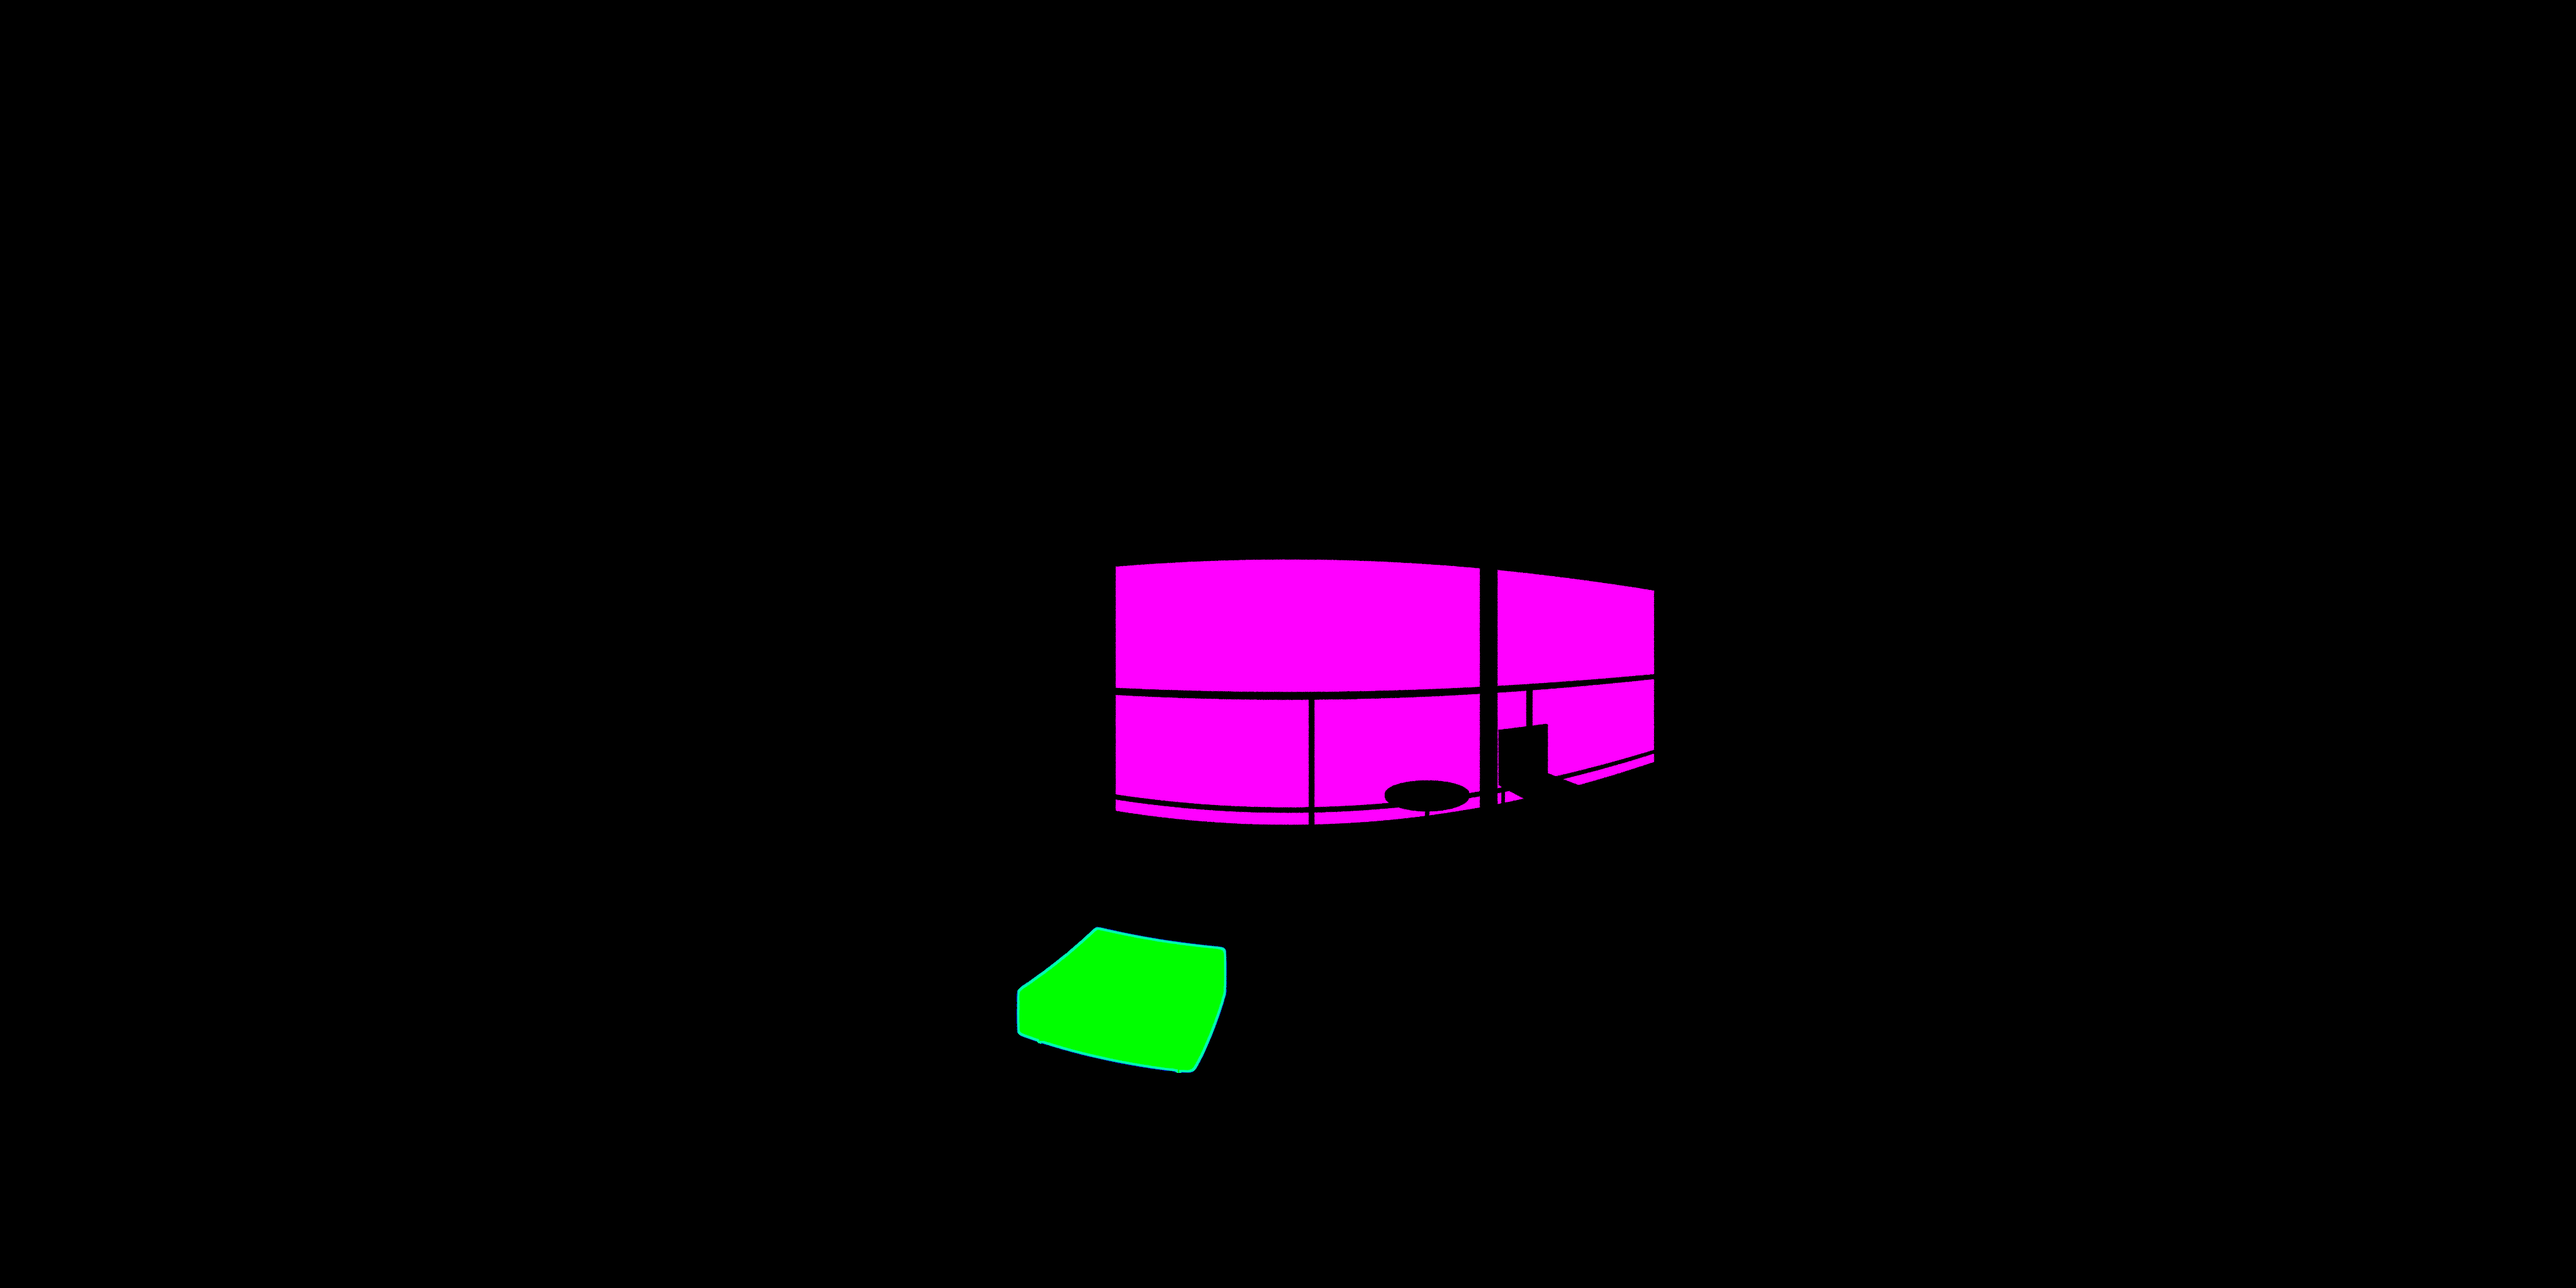
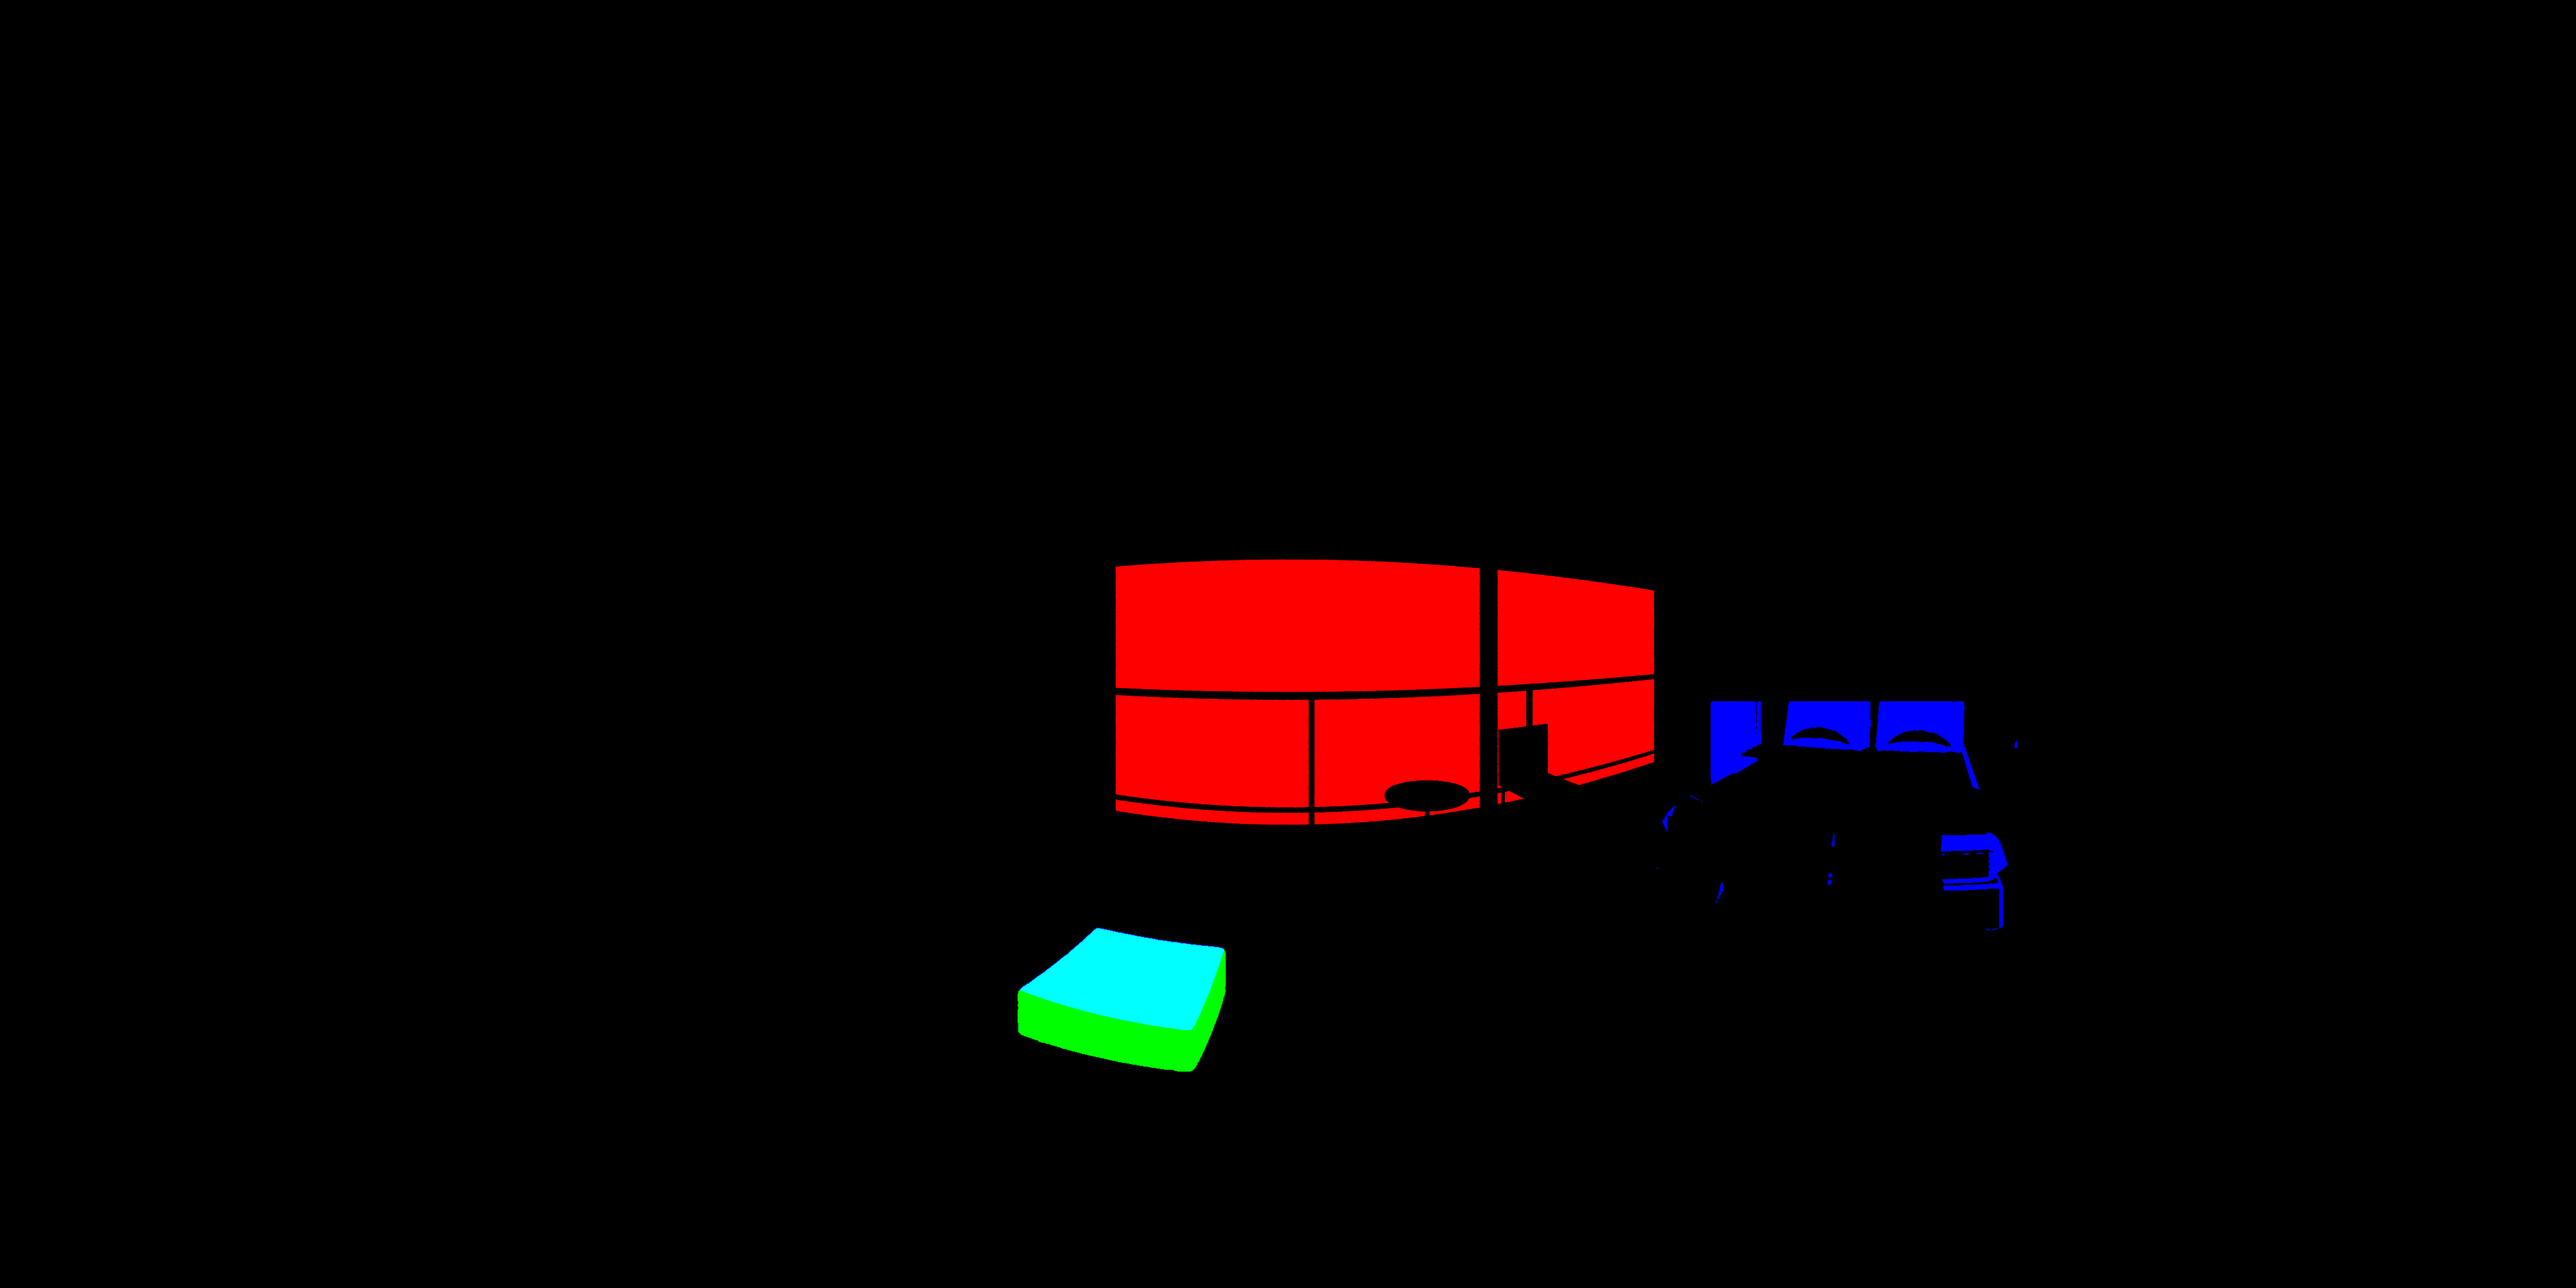
Teste 26/10 (E0): janelas acesas so em paredes reais (sem manchas nos telhados) (projeto 3f2041f)

Changed region(s): [[0.4062, 0.4375, 0.7812, 0.6562], [0.375, 0.7188, 0.5, 0.8125], [0.75, 0.625, 0.7812, 0.7188]]

diff --git a/teste/src/google-vista.js b/teste/src/google-vista.js
@@ -120,7 +120,7 @@ const LUZ_GLSL = `
     vec3 cB = outgoingLight;
     outgoingLight = g3dGrade(cB * uLuz, uGrade); // C7 21/10: day grade (identity at night and in the window photo shots)
     // street lights (same map as our city: R sodium, G LED, B terrain height), on what is near street level
-    if (uNoiteG > 0.001 && uTerrExt > 0.0) {
+    if (uNoiteG > 0.001 && uTerrExt > 0.0${typeof location !== 'undefined' && /[?&]g3dlz=0/.test(location.search) ? ' && false' : ''}) { // ?g3dlz=0: street-light pools off (tests)
       vec2 rq = (vB5.xz + uTerrExt) / (2.0 * uTerrExt);
       if (all(greaterThan(rq, vec2(0.0))) && all(lessThan(rq, vec2(1.0)))) {
         vec3 lz = texture2D(uTerr, rq).rgb;
@@ -131,7 +131,27 @@ const LUZ_GLSL = `
     if (uNoiteG > 0.001) {
       vec3 nB = normalize(cross(dFdx(vB5), dFdy(vB5)));
       bool verde = cB.g > cB.r * 1.08 && cB.g > cB.b * 1.04;
-      if (!verde && abs(nB.y) < 0.5 && vB5.y > 3.5) {
+      // RODADA 26/10 (Meta: beige 'lit window' patches on roofs and ground seen from the balcony, sticker-like patches on facades):
+      // only vertical surfaces (|n.y| < 0.3; a 30-45 deg tiled roof has |n.y| 0.7-0.87 but the screen-derivative normal of coarse
+      // tiles wanders) and >= 3 m above the LOCAL ground (terrain map), not above the B5 origin
+      float hLocJ = vB5.y;
+      if (uTerrExt > 0.0) { vec2 rqJ = (vB5.xz + uTerrExt) / (2.0 * uTerrExt); if (all(greaterThan(rqJ, vec2(0.0))) && all(lessThan(rqJ, vec2(1.0)))) hLocJ = vB5.y - (texture2D(uTerr, rqJ).b * 60.0 - 20.0); }
+      // ... and only on the wall of a TALL building of OUR footprint map (c.w = 1 + roof height, cena3d montaMapaPredios), below its
+      // roof: the photo W layer (dumped 26/10) had shards on parapets / roof steps of the low houses and on Google's roof edges
+      bool altoJ = true;
+      if (uMapaR.z > 0.0) {
+        vec2 uvJ = vec2((vB5.x - uMapaR.x) * uMapaR.z, 1.0 - (vB5.z - uMapaR.y) * uMapaR.z);
+        if (all(greaterThan(uvJ, vec2(0.0))) && all(lessThan(uvJ, vec2(1.0)))) {
+          vec2 eJ = vec2(2.5 * uMapaR.z, 0.0); float topoJ = -1.0; vec4 cJ;
+          cJ = texture2D(uMapaP, uvJ); if (cJ.a > 0.5) topoJ = max(topoJ, cJ.w - 1.0);
+          cJ = texture2D(uMapaP, uvJ + eJ.xy); if (cJ.a > 0.5) topoJ = max(topoJ, cJ.w - 1.0);
+          cJ = texture2D(uMapaP, uvJ - eJ.xy); if (cJ.a > 0.5) topoJ = max(topoJ, cJ.w - 1.0);
+          cJ = texture2D(uMapaP, uvJ + eJ.yx); if (cJ.a > 0.5) topoJ = max(topoJ, cJ.w - 1.0);
+          cJ = texture2D(uMapaP, uvJ - eJ.yx); if (cJ.a > 0.5) topoJ = max(topoJ, cJ.w - 1.0);
+          altoJ = topoJ > 12.0 && vB5.y < topoJ - 1.5;
+        }
+      }
+      if (!verde && altoJ && abs(nB.y) < 0.3 && hLocJ > 9.0 && vB5.y > 3.5) { // 9 m (3rd floor up): the walls/parapets of the 1-2 storey houses below (prints) got shards
         // window grid along the facade. 08/10 (Victor: 'triangulos, varios formatos'): Google's mesh is a patchwork of
         // triangles with their own normals, so a grid following each triangle's normal broke every window into shards. The
         // facade direction now comes from OUR city's walls (fachadas-angulo.webp, angle mod 90 deg): every triangle of a
@@ -144,7 +164,7 @@ const LUZ_GLSL = `
             float t = atan(an.g * 2.0 - 1.0, an.r * 2.0 - 1.0) * 0.25;
             vec2 e1 = vec2(cos(t), sin(t)), e2 = vec2(-e1.y, e1.x);
             float d1 = dot(nB.xz, e1), d2 = dot(nB.xz, e2);
-            if (abs(d1) > abs(d2)) { tgv = e2; lado = sign(d1) * 17.0; } else { tgv = e1; lado = 40.0 + sign(d2) * 17.0; } temMapa = 1.0; alin = smoothstep(0.80, 0.90, max(abs(d1), abs(d2)) / max(length(nB.xz), 1e-4)); // triangles > ~30 deg off the facade (balcony zig-zag) get no window: they only made shards
+            if (abs(d1) > abs(d2)) { tgv = e2; lado = sign(d1) * 17.0; } else { tgv = e1; lado = 40.0 + sign(d2) * 17.0; } temMapa = 1.0; alin = smoothstep(0.88, 0.95, max(abs(d1), abs(d2)) / max(length(nB.xz), 1e-4)); // triangles > ~30 deg off the facade (balcony zig-zag) get no window: they only made shards
           }
         }
         float sF = dot(vB5.xz, tgv);
@@ -152,7 +172,15 @@ const LUZ_GLSL = `
         vec2 f = vec2(fract(sF / 3.1), fract(vB5.y / 2.85));
         float jan = smoothstep(0.20, 0.24, f.x) * (1.0 - smoothstep(0.76, 0.80, f.x)) * smoothstep(0.34, 0.38, f.y) * (1.0 - smoothstep(0.84, 0.88, f.y));
         float id = g3dH21(cel + lado + floor(vB5.xz / 40.0) * 3.1);
-        jan *= mix(1.0, alin, temMapa);${typeof location !== 'undefined' && /[?&]gangdbg=1/.test(location.search) ? ' outgoingLight = vec3(temMapa, alin, jan) * 0.6; cB = vec3(0.0);' : ''} // ?gangdbg=1: R = facade map here, G = triangle on the facade axis, B = window
+        jan *= mix(1.0, alin, temMapa) * (uAngExt > 0.0 ? temMapa : 1.0); // RODADA 26/10: inside our facade map only (off-map triangles made loose patches)${typeof location !== 'undefined' && /[?&]gangdbg=1/.test(location.search) ? ' outgoingLight = vec3(temMapa, alin, jan) * 0.6; cB = vec3(0.0);' : ''} // ?gangdbg=1: R = facade map here, G = triangle on the facade axis, B = window
+        // RODADA 26/10: a wall seen at a grazing angle (from the balcony, looking down past a roof edge) squeezes a window into a
+        // loose sliver ('manchas soltas sobre os telhados'). Screen footprint anisotropy: one pixel spans much more wall along one
+        // axis than the other -> no lit window there (frontal walls, near or far, keep ratio ~1)
+        float gxJ = length(dFdx(vB5)), gyJ = length(dFdy(vB5));
+        jan *= 1.0 - smoothstep(2.5, 4.0, max(gxJ, gyJ) / max(min(gxJ, gyJ), 1e-4));
+        // and the wall must face the camera: cos(view, normal) > ~0.4 (the camera of the window photo is the balcony eye)
+        vec3 camJ = (uParaB5 * vec4(cameraPosition, 1.0)).xyz;
+        jan *= smoothstep(0.30, 0.45, abs(dot(nB, normalize(camJ - vB5))));
         float acesa = step(id, uFracG) * jan;
         float lum = dot(cB, vec3(0.2126, 0.7152, 0.0722));
         float vidro = 1.0 - smoothstep(0.18, 0.5, lum);
@@ -332,7 +360,7 @@ export function iniciarGoogle() {
         sh.uniforms.uMapaP = s.recorte.mapa; sh.uniforms.uMapaR = s.recorte.mapaR; sh.uniforms.uCamB5 = s.recorte.camB5; sh.uniforms.uAlvoB5 = s.recorte.alvoB5;
         sh.uniforms.uTerr = s.recorte.terr; sh.uniforms.uTerrExt = s.recorte.terrExt; sh.uniforms.uAng = s.recorte.ang; sh.uniforms.uAngExt = s.recorte.angExt;
         sh.vertexShader = 'uniform mat4 uParaB5;\nvarying vec3 vB5;\nvarying float vProf;\n' + sh.vertexShader.replace('#include <project_vertex>', '#include <project_vertex>\nvB5 = (uParaB5 * modelMatrix * vec4(transformed, 1.0)).xyz;\nvProf = -mvPosition.z;');
-        sh.fragmentShader = 'uniform vec2 uLote[24];\nuniform float uLoteN;\nbool g3dNoLote(vec2 p) { bool d = false; for (int i = 0; i < 24; i++) { if (float(i) >= uLoteN) break; vec2 a = uLote[i], b = uLote[i + 1 < 24 ? i + 1 : 0]; if (float(i + 1) >= uLoteN) b = uLote[0]; if ((a.y > p.y) != (b.y > p.y) && p.x < (b.x - a.x) * (p.y - a.y) / (b.y - a.y) + a.x) d = !d; } return d; }\nuniform float uRecLiga;\nuniform vec3 uRecMin;\nuniform vec3 uRecMax;\nuniform vec4 uRet;\nuniform float uProf;\nvarying vec3 vB5;\nvarying float vProf;\n'
+        sh.fragmentShader = 'uniform mat4 uParaB5;\nuniform vec2 uLote[24];\nuniform float uLoteN;\nbool g3dNoLote(vec2 p) { bool d = false; for (int i = 0; i < 24; i++) { if (float(i) >= uLoteN) break; vec2 a = uLote[i], b = uLote[i + 1 < 24 ? i + 1 : 0]; if (float(i + 1) >= uLoteN) b = uLote[0]; if ((a.y > p.y) != (b.y > p.y) && p.x < (b.x - a.x) * (p.y - a.y) / (b.y - a.y) + a.x) d = !d; } return d; }\nuniform float uRecLiga;\nuniform vec3 uRecMin;\nuniform vec3 uRecMax;\nuniform vec4 uRet;\nuniform float uProf;\nvarying vec3 vB5;\nvarying float vProf;\n'
           + 'uniform vec4 uGrade;\nuniform float uNitG;\nuniform vec4 uViz[16];\nuniform float uVizN;\nbool g3dNoViz(vec3 p) { for (int i = 0; i < 8; i++) { if (float(i) >= uVizN) break; vec4 a = uViz[2 * i], b = uViz[2 * i + 1]; vec2 d = p.xz - a.xy; vec2 q = vec2(dot(d, b.xy), dot(d, vec2(-b.y, b.x))); if (abs(q.x) < a.z && abs(q.y) < a.w && p.y > b.z && p.y < b.w) return true; } return false; }\n' + GRADE_GLSL + 'uniform vec3 uLuz;\nuniform float uNoiteG;\nuniform float uFracG;\nuniform sampler2D uAng;\nuniform float uAngExt;\nfloat g3dH21(vec2 p) { p = fract(p * vec2(123.34, 456.21)); p += dot(p, p + 45.32); return fract(p.x * p.y); }\n'
           + FANT_GLSL
           + sh.fragmentShader.replace('#include <map_fragment>', NIT_GLSL).replace('#include <opaque_fragment>', LUZ_GLSL + '\n#include <opaque_fragment>').replace('void main() {',
